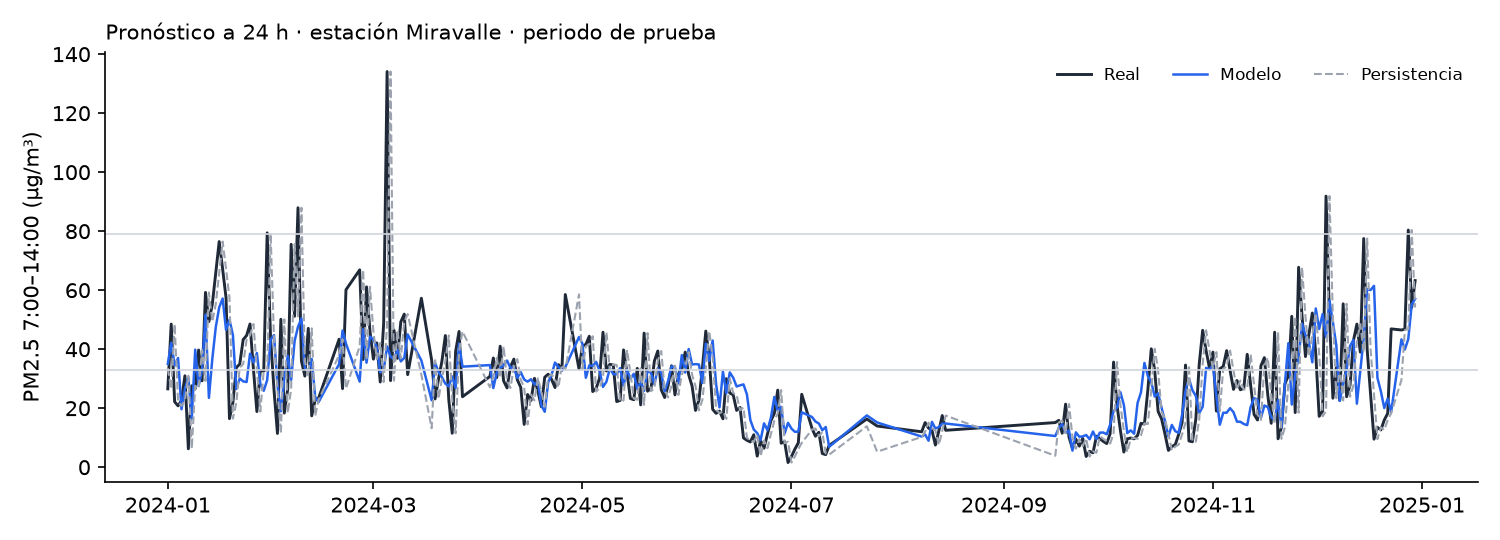
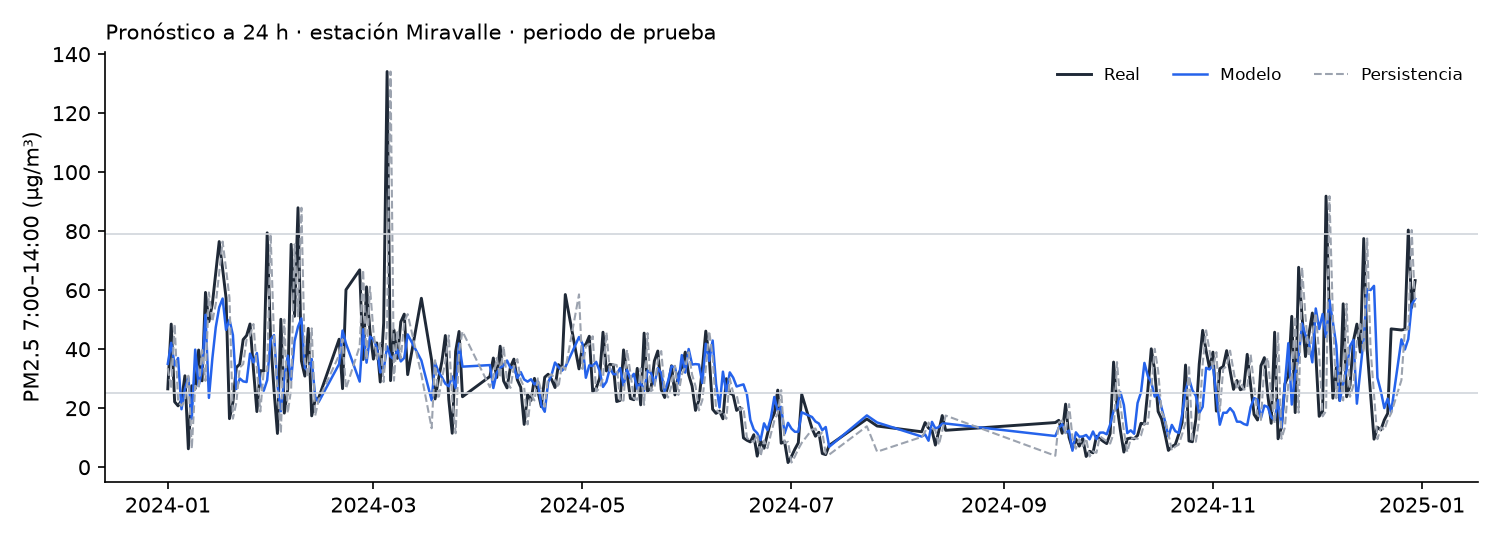
ml: usa el corte 25 vigente en la grafica de resultados

Changed region(s): [[0.092, 0.6815, 0.9813, 0.7407]]

diff --git a/ml/entrenar.py b/ml/entrenar.py
@@ -172,7 +172,7 @@ def grafica(y, pred_m, pred_b, ruta: Path, estacion: str) -> None:
     ax.plot(y.index, y, color="#1f2937", lw=1.4, label="Real")
     ax.plot(pred_m.index, pred_m, color="#2563eb", lw=1.2, label="Modelo")
     ax.plot(pred_b.index, pred_b, color="#9ca3af", lw=1, ls="--", label="Persistencia")
-    for lim in (33, 79):
+    for lim in (25, 79):  # cortes verde/amarillo y amarillo/rojo vigentes (NOM-172, columna 2026)
         ax.axhline(lim, color="#d1d5db", lw=0.8)
     ax.set_ylabel("PM2.5 7:00–14:00 (µg/m³)")
     ax.set_title(f"Pronóstico a 24 h · estación {estacion} · periodo de prueba", loc="left", fontsize=10)
